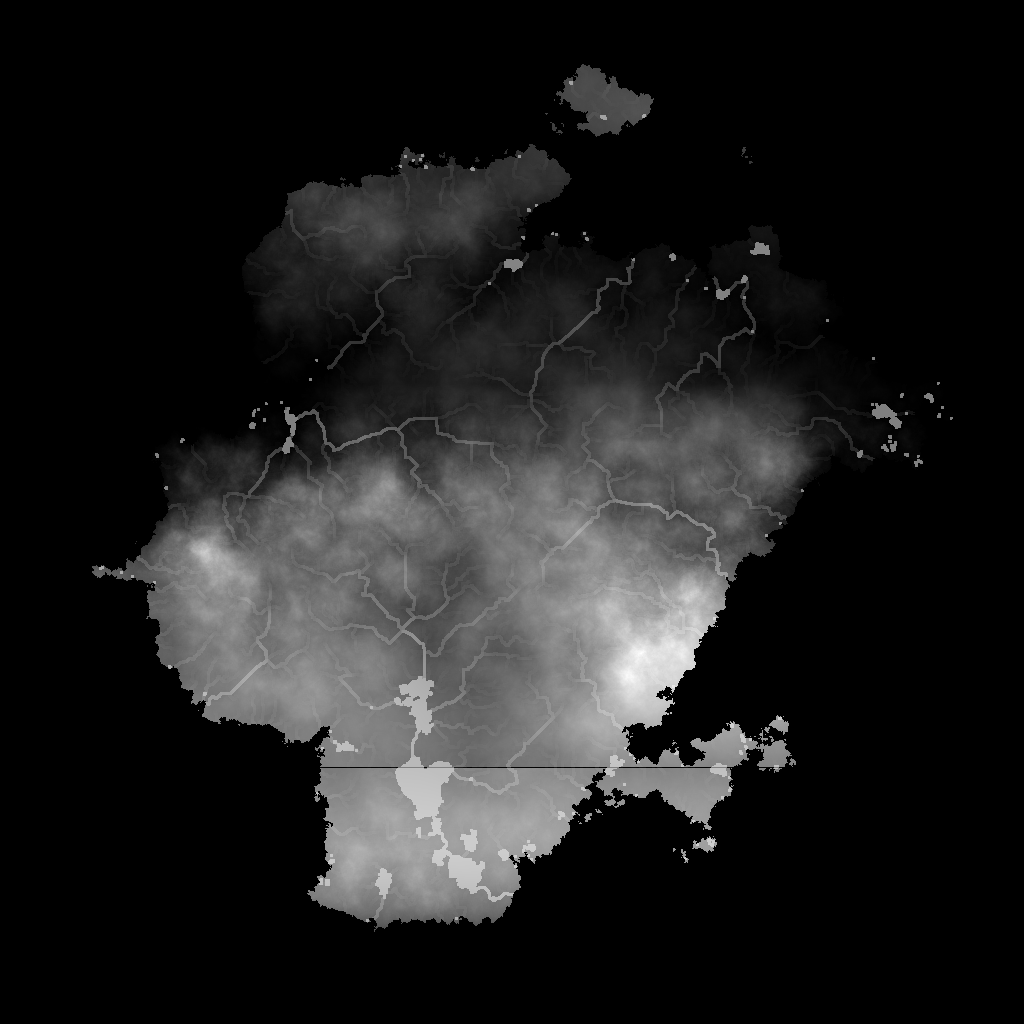
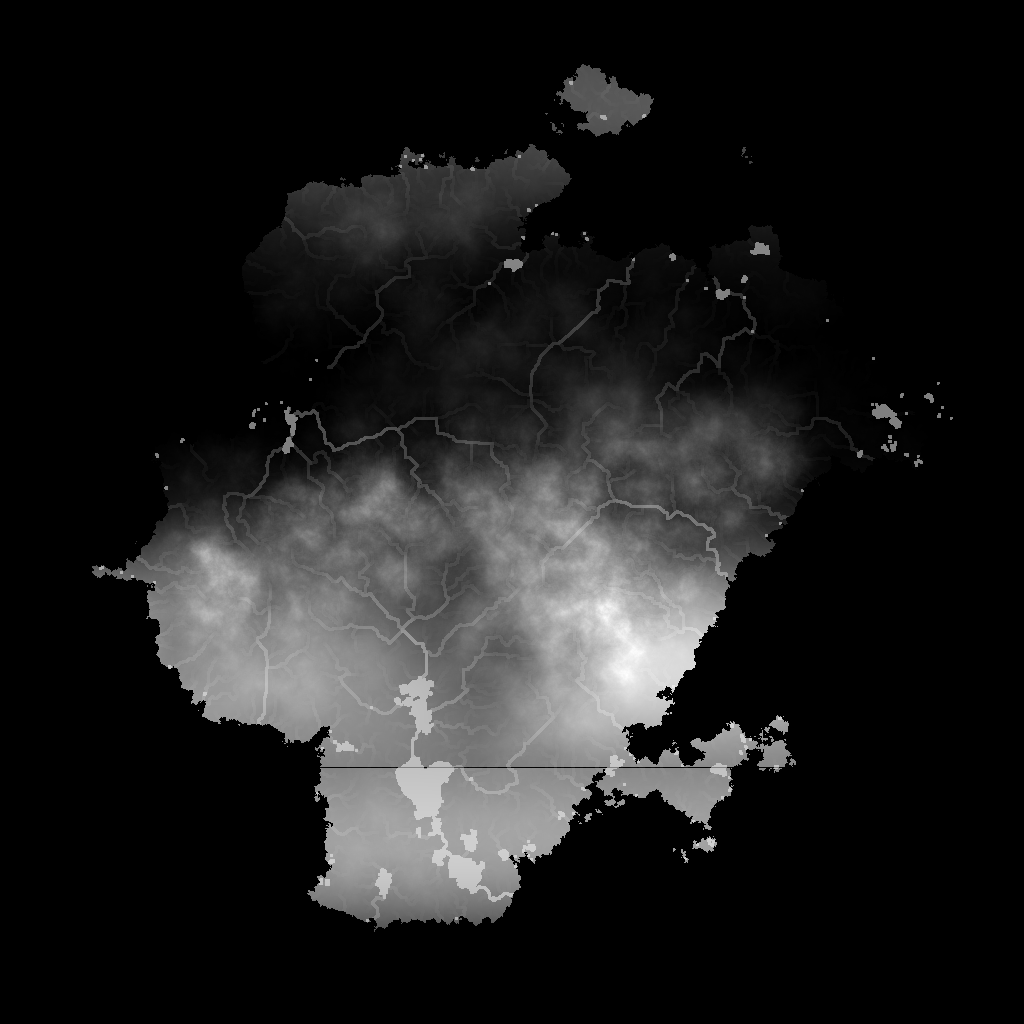
Generate more field

diff --git a/src/map.rs b/src/map.rs
@@ -250,7 +250,7 @@ impl ProvBuilder {
                     _ => 0.,
                 };
 
-                self.heightmap.push(val * val);
+                self.heightmap.push(val * val * val);
             }
         }
     }
@@ -415,21 +415,20 @@ impl ProvBuilder {
         
         self.rivermap = vec![0.; size * size];
 
-        for _ in 0..size {
-            let mut rivermap_new = vec![0.; size * size];
+        for i in 0..size * size {
+            if river_drainage[i] > 0 {
+                let mut ii = i;
 
-            for (i, &rain) in self.cloudmap.iter().enumerate() {
-                if river_drainage[i] > 0 {
-                    rivermap_new[i] += rain;
+                loop {
+                    self.rivermap[ii] += self.cloudmap[i];
+
+                    if river_drainage[ii] > 0 {
+                        ii = river_drainage[ii];
+                    } else {
+                        break;
+                    }
                 }
             }
-            for (i, &river) in river_drainage.iter().enumerate() {
-                if river > 0 {
-                    rivermap_new[river] += self.rivermap[i];
-                }
-            }
-
-            swap(&mut self.rivermap, &mut rivermap_new);
         }
 
         for river in self.rivermap.iter_mut() {
